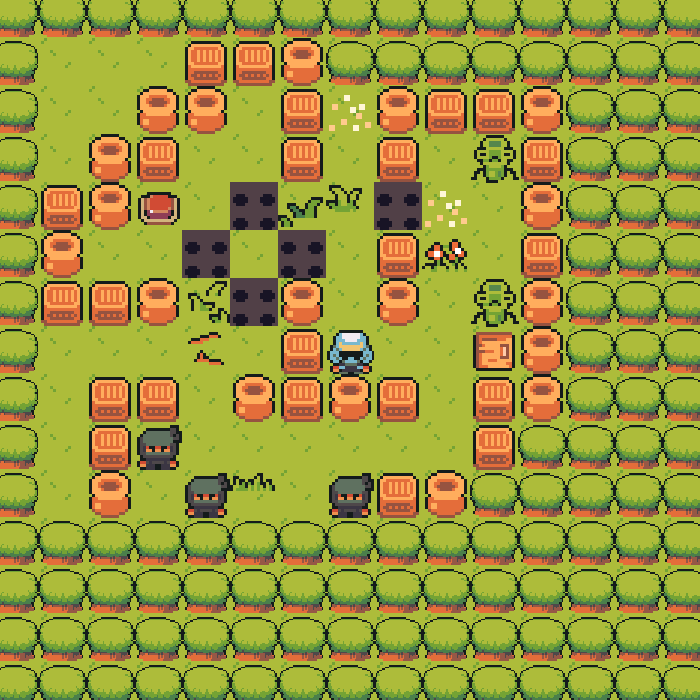
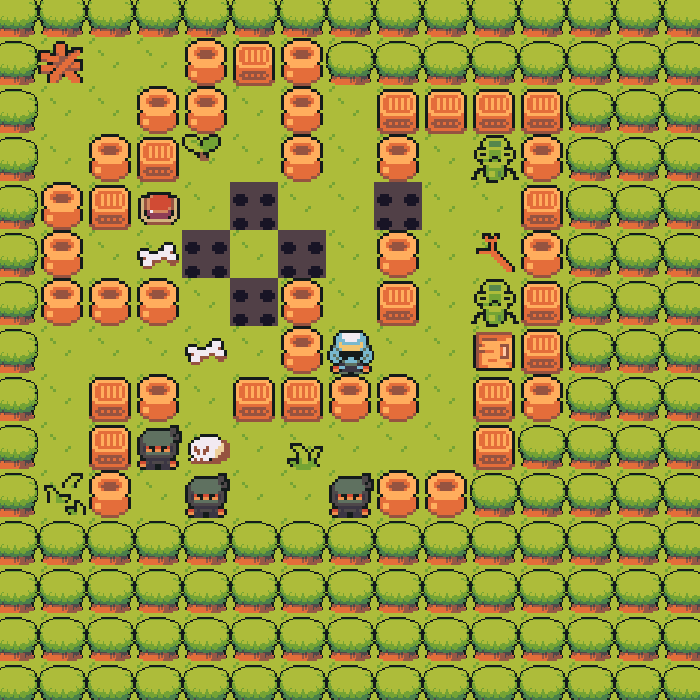
menu

diff --git a/game.py b/game.py
@@ -6,6 +6,7 @@ from floor import Floor
 from button import Button
 from picture import Picture
 from text import Text
+from panel import Panel
 import functions
 from missile import Missile
 from os import listdir, path
@@ -41,6 +42,7 @@ class Game:
             'startScreen': pygame.transform.scale(functions.load_image('startScreen.png'), (self.width, self.height)),
             'fon': pygame.transform.scale(functions.load_image('fon.png'), (self.width, self.height))
         }
+        self.activeMenu = False
         self.enemies = []
         self.coordSpikes = []
         self.player = None
@@ -66,6 +68,7 @@ class Game:
         self.tiles_group = pygame.sprite.Group()
         self.player_group = pygame.sprite.Group()
         self.enemies_group = pygame.sprite.Group()
+        self.activeMenu = False
         level_list = functions.load_level(name_level)
         enemyEventType = pygame.USEREVENT + 1
         spikesEventType = enemyEventType + 1
@@ -83,8 +86,16 @@ class Game:
             sprite.draw(self.screen)
         self.display.flip()
 
-        reset_btn = Button(40, 40, 295, 650, 'R', (100, 100, 100), (150, 150, 150), name_level, action=self.run)
-        menu_btn = Button(40, 40, 345, 650, 'M', (100, 100, 100), (150, 150, 150), action=self.menu_levels)
+        pause_btn = Button(80, 80, 310, 620, '', (100, 100, 100), (150, 150, 150), action=self.openMenu,
+                           image='pauseBtn.png')
+        menu = Panel(100, 100, 500, 500,
+                     'menuPanel1.png',
+                     [Button(80, 80, 0, 0, 'PLAY', (0, 0, 0), (0, 0, 0), action=self.closeMenu,
+                             image='buttonLong.png'),
+                      Button(80, 80, 0, 0, 'OPTIONS', (0, 0, 0), (0, 0, 0), image='buttonLong.png'),
+                      Button(80, 80, 0, 0, 'LEVELS', (0, 0, 0), (0, 0, 0), action=self.menu_levels,
+                             image='buttonLong.png'),
+                      Button(80, 80, 0, 0, 'MENU', (0, 0, 0), (0, 0, 0), action=self.menu, image='buttonLong.png')])
         pygame.image.save(self.screen, f'Data/screenShots/{name_level.rstrip(".txt")}SH.png')
         while True:
             self.screen.fill(pygame.Color('white'))
@@ -92,32 +103,34 @@ class Game:
             for event in pygame.event.get():
                 if event.type == pygame.QUIT:
                     sys.exit()
-                if event.type == enemyEventType:
+                if event.type == enemyEventType and not self.activeMenu:
                     for enemy in self.enemies:
                         if type(enemy) != Missile:
                             enemy.move()
-                if event.type == shurikenEventType:
+                if event.type == shurikenEventType and not self.activeMenu:
                     for enemy in self.enemies:
                         if type(enemy) == Missile:
                             enemy.move()
-                if event.type == spikesEventType:
+                if event.type == spikesEventType and not self.activeMenu:
                     for y, x in self.coordSpikes:
                         self.level[y][x].update(event)
-                self.player.update(event)
+                if not self.activeMenu:
+                    self.player.update(event)
             # изменяем ракурс камеры
             self.camera.update(self.player)
             # обновляем положение всех спрайтов
             for sprite in self.all_sprites:
                 self.camera.apply(sprite)
                 sprite.draw(self.screen)
-            reset_btn.draw(self.screen)
-            menu_btn.draw(self.screen)
+            pause_btn.draw(self.screen)
             if self.check_intersection():
                 self.death()
                 self.end_screen(False)
             if self.player.isDead():
                 self.death()
                 self.end_screen(False)
+            if self.activeMenu:
+                menu.draw(self.screen)
             self.display.flip()
 
     def start_screen(self):
@@ -271,6 +284,12 @@ class Game:
 
     def leftBtn(self):
         self.indLevel = self.indLevel - 1
+
+    def openMenu(self):
+        self.activeMenu = True
+
+    def closeMenu(self):
+        self.activeMenu = False
 
 
 game = Game()

diff --git a/button.py b/button.py
@@ -1,3 +1,5 @@
+import time
+
 import pygame
 from functions import print_text
 import mixer as mx
@@ -18,7 +20,7 @@ class Button:
         self.frames = []
         self.cut_sheet(self.sheet, cols, rows)
         self.cur_frame = 0
-        self.image = self.frames[self.cur_frame]
+        self.update_sprite(0)
         self.useImage = image != 'none.png'
         self.rect = self.image.get_rect().move(x, y)
         self.isPressed = True
@@ -30,10 +32,12 @@ class Button:
         if self.rect.x < mouse[0] < self.rect.x + self.width:
             if self.rect.y < mouse[1] < self.rect.y + self.height:
                 if self.useImage:
-                    pass
+                    self.update_sprite(2)
                 else:
                     self.image.fill(self.activeColor)
                 if click[0] == 1:
+                    self.update_sprite(1)
+                    screen.blit(self.image, self.rect)
                     if self.action is not None and not self.isPressed:
                         mx.mixer.play('button', loops=0)
                         self.action(*self.args) if self.args else self.action()
@@ -42,12 +46,12 @@ class Button:
                     self.isPressed = False
             else:
                 if self.useImage:
-                    pass
+                    self.update_sprite(0)
                 else:
                     self.image.fill(self.staticColor)
         else:
             if self.useImage:
-                pass
+                self.update_sprite(0)
             else:
                 self.image.fill(pygame.Color(self.staticColor))
         print_text(screen, self.rect.x + (self.width - len(self.massage) * 20)//2, self.rect.y + (self.height - 20)//2,
@@ -65,5 +69,12 @@ class Button:
     def update_sprite(self, numSprite):
         self.cur_frame = numSprite % len(self.frames)
         self.image = self.frames[int(self.cur_frame % len(self.frames))]
+
+    def reSize(self, sizeX, sizeY, cols, rows):
+        self.width = sizeX
+        self.height = sizeY
+        self.frames = []
+        self.cut_sheet(self.sheet, cols, rows)
+        self.update_sprite(0)
 
 

diff --git a/panel.py b/panel.py
@@ -1,0 +1,28 @@
+import pygame
+from button import Button
+
+
+class Panel:
+    def __init__(self, x, y, width, height, image, buttons):
+        self.width = width
+        self.height = height
+        self.image = pygame.transform.scale(pygame.image.load('Data/sprites/buttons/' + image),
+                                            (self.width, self.height))
+        self.rect = self.image.get_rect().move(x, y)
+        self.buttons = buttons
+        y = (self.height - sum([i.height for i in self.buttons]) - 160) // (len(self.buttons) - 1)
+        sizeX = self.width - 160
+        for indButton in range(len(self.buttons)):
+            self.buttons[indButton].reSize(sizeX, self.buttons[indButton].height, 1, 3)
+            self.buttons[indButton].rect.x = self.rect.x + 80
+            if indButton > 0:
+                self.buttons[indButton].rect.y = self.buttons[indButton - 1].height + y + \
+                                                 self.buttons[indButton - 1].rect.y
+            else:
+                self.buttons[indButton].rect.y = self.rect.y + 80
+
+    def draw(self, screen):
+        screen.blit(self.image, self.rect)
+        for button in self.buttons:
+            button.draw(screen)
+
